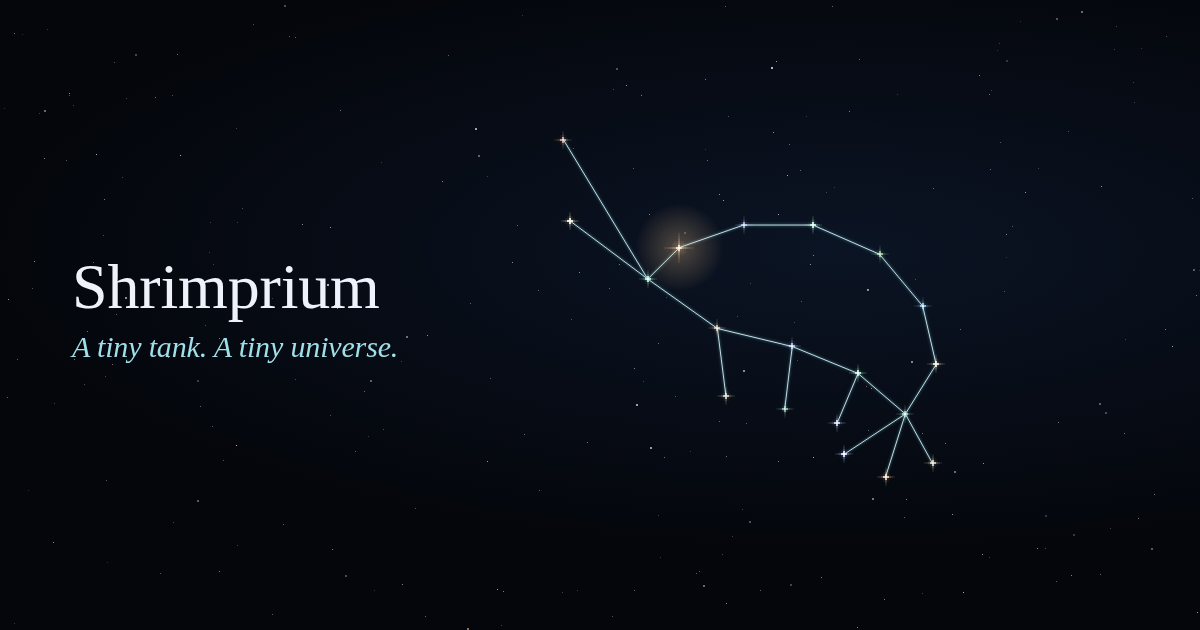
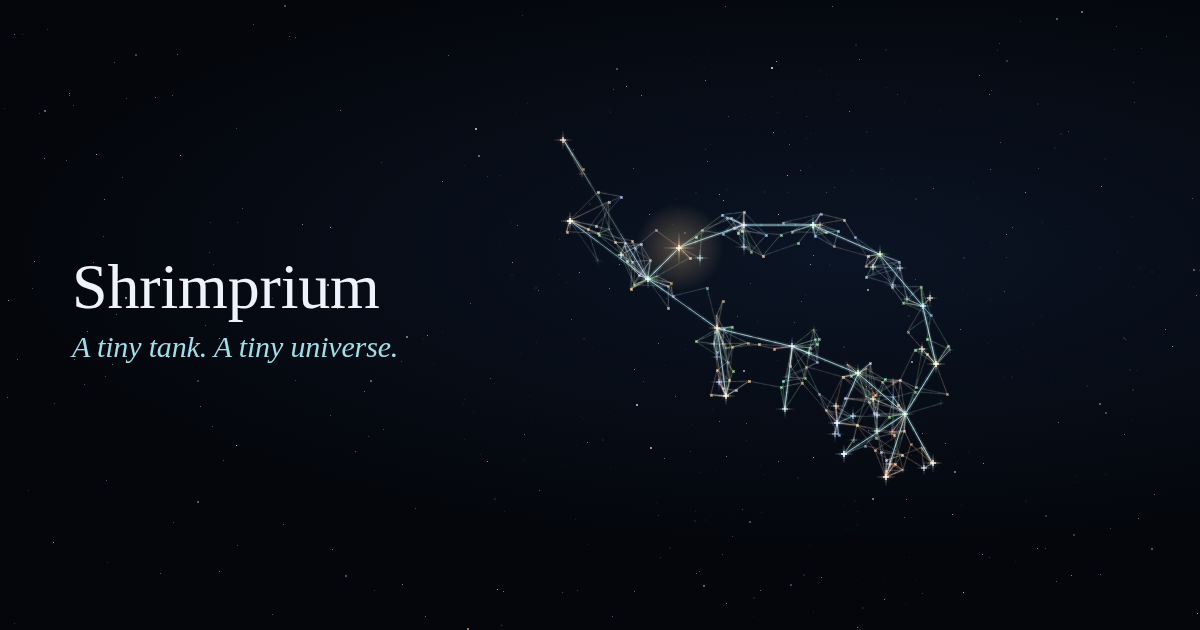
Gather the particle web around the shrimp constellation in scene 04
Instead of vanishing, particles from scene 03 flow onto spots along
the shrimp's edges and link to nearby shrimp stars and each other,
dimmer than the outline so the silhouette stays readable. Refresh the
OG image to match.

Claude-Session: https://claude.ai/code/session_01W6kEWfgYUNKXbpe1Y2kaDz

diff --git a/src/scripts/cosmos.js b/src/scripts/cosmos.js
@@ -190,6 +190,15 @@ export function startCosmos(canvas) {
 
   const nebulae = CYCLE.map((n, i) => ({ node: i, color: n.color, seed: 11 + i, img: null }));
 
+  // 04: 새우 별자리의 선을 따라 몸을 감싸는 자리 (선 위의 한 점 + 수직으로 살짝 벗어남).
+  function bodySpot() {
+    const [a, b] = SHRIMP_EDGES[Math.floor(rand() * SHRIMP_EDGES.length)];
+    const [ax, ay] = SHRIMP[a], [bx, by] = SHRIMP[b];
+    const f = rand(), len = Math.hypot(bx - ax, by - ay) || 1;
+    const off = (rand() + rand() - 1) * 0.16;
+    return [(ax + (bx - ax) * f - ((by - ay) / len) * off) * 1.05, (ay + (by - ay) * f + ((bx - ax) / len) * off) * 1.05];
+  }
+
   // 03에서 피어나는 작은 입자 별들. 종마다 다음 단계의 종과 이어진다.
   const WEB_COUNT = matchMedia('(max-width: 640px)').matches ? 110 : 170;
   const web = Array.from({ length: WEB_COUNT }, () => {
@@ -201,6 +210,7 @@ export function startCosmos(canvas) {
       color: CYCLE[species].color,
       phase: rand() * TAU,
       half: rand() < 0.25 ? (rand() < 0.35 ? 4 : 3) : 0, // 0 = 작은 색 점
+      body: bodySpot(),
     };
   });
   // 연결되지 않고 흩날리는 성간 먼지 (인게임처럼 촘촘하게)
@@ -386,17 +396,22 @@ export function startCosmos(canvas) {
     if (s > 3) drawLinks(4, 1, clamp(s - 3));
 
     // 03: 흐르며 섞이는 입자들과 얽힌 연결
-    const webW = clamp(1 - Math.abs(s - 3) * 1.25);
+    // 04로 넘어가면 입자들이 새우 몸으로 모여든다 (k4). 새우 윤곽이 묻히지 않게 조금 흐리게.
+    const k4 = ease(clamp(s - 3));
+    const webW = s <= 3 ? clamp(1 - (3 - s) * 1.25) : lerp(1, 0.6, k4);
     if (webW > 0) {
-      const bloom = 0.55 + 0.45 * ease(webW);
+      const bloom = s <= 3 ? 0.55 + 0.45 * ease(webW) : 1;
       const pts = web.map((w) => {
         // 안쪽이 더 빨리 도는 차등 회전 + 작은 소용돌이 → 입자들이 계속 섞인다.
         const a = w.ang + (reduced ? 0 : t * 0.05 / (0.35 + w.dist));
         const wx = reduced ? 0 : Math.sin(t * 0.35 + w.phase) * 0.06;
         const wy = reduced ? 0 : Math.cos(t * 0.29 + w.phase * 1.7) * 0.06;
+        const fx = (Math.cos(a) * w.dist * stage.sx * 1.1 + wx) * bloom;
+        const fy = (Math.sin(a) * w.dist + wy) * bloom;
+        const bx = w.body[0] + wx * 0.25, by = w.body[1] + wy * 0.25;
         return {
-          x: stage.x + (Math.cos(a) * w.dist * stage.sx * 1.1 + wx) * bloom * stage.r + pointer.x * 8,
-          y: stage.y + (Math.sin(a) * w.dist + wy) * bloom * stage.r + pointer.y * 8,
+          x: stage.x + lerp(fx, bx, k4) * stage.r + pointer.x * lerp(8, 6, k4),
+          y: stage.y + lerp(fy, by, k4) * stage.r + pointer.y * lerp(8, 6, k4),
           w,
         };
       });
@@ -408,7 +423,7 @@ export function startCosmos(canvas) {
           const b = pts[j];
           if (b.w.species !== next) continue;
           const d = Math.hypot(a.x - b.x, a.y - b.y);
-          if (d < near) linkLine(a.x, a.y, b.x, b.y, { alpha: webW * 0.7 * (1 - d / near), color: a.w.color, ra: dotR, rb: dotR, width: 0.8 });
+          if (d < near) linkLine(a.x, a.y, b.x, b.y, { alpha: webW * lerp(0.7, 0.45, k4) * (1 - d / near), color: a.w.color, ra: dotR, rb: dotR, width: 0.8 });
         }
       }
       // 허브 ↔ 다음 단계 입자 (멀리까지 부채꼴로 뻗는다)
@@ -419,13 +434,25 @@ export function startCosmos(canvas) {
         for (const b of pts) {
           if (b.w.species !== next && !(h === 0 && b.w.species === 3)) continue;
           const d = Math.hypot(hp.x - b.x, hp.y - b.y);
-          if (d < reach) linkLine(hp.x, hp.y, b.x, b.y, { alpha: webW * Math.sqrt(1 - d / reach), color, ra: hubR, rb: dotR });
+          if (d < reach) linkLine(hp.x, hp.y, b.x, b.y, { alpha: webW * (1 - k4) * Math.sqrt(1 - d / reach), color, ra: hubR, rb: dotR });
+        }
+      }
+      // 04: 입자 ↔ 가장 가까운 새우 별
+      if (k4 > 0) {
+        const grab = 0.42 * stage.r;
+        for (const b of pts) {
+          let best = -1, bd = grab;
+          for (let i = 0; i < SHRIMP.length; i++) {
+            const d = Math.hypot(pos[i].x - b.x, pos[i].y - b.y);
+            if (d < bd) { bd = d; best = i; }
+          }
+          if (best >= 0) linkLine(pos[best].x, pos[best].y, b.x, b.y, { alpha: k4 * 0.5 * (1 - bd / grab), color: b.w.color, ra: hubR * 0.6, rb: dotR, width: 0.8 });
         }
       }
       flushLinks();
       for (const m of motes) {
         const a = m.ang + (reduced ? 0 : t * 0.04 / (0.35 + m.dist));
-        ctx.globalAlpha = webW * (reduced ? 0.6 : 0.35 + 0.35 * Math.sin(t * 1.3 + m.phase));
+        ctx.globalAlpha = webW * (1 - 0.7 * k4) * (reduced ? 0.6 : 0.35 + 0.35 * Math.sin(t * 1.3 + m.phase));
         ctx.fillStyle = m.color;
         ctx.fillRect(Math.round(stage.x + Math.cos(a) * m.dist * stage.sx * 1.1 * bloom * stage.r), Math.round(stage.y + Math.sin(a) * m.dist * bloom * stage.r), m.size, m.size);
       }
